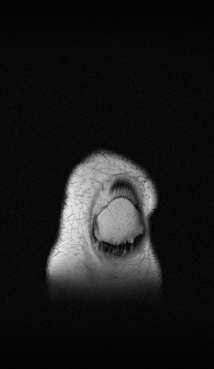
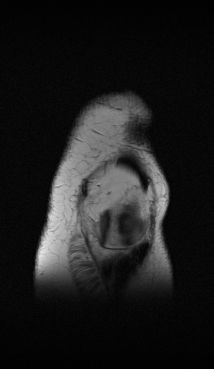
looking at different knee slice

Changed region(s): [[0.1402, 0.2385, 0.8131, 0.8049]]

diff --git a/my_CDLNet/sense.py b/my_CDLNet/sense.py
@@ -38,12 +38,11 @@ def main(args):
     device = torch.device("cuda:0" if ngpu > 0 else "cpu")
     print(f"Using device {device}.")
     
-    slice = args.slice
+    slice = int(args.slice)
     kspace_fname = args.kspace_path
     with h5py.File(kspace_fname) as f:
         kspace = f['kspace'][slice, :, :, :]
-        for name in f.keys():
-            print(f[name][()])
+        print(f.attrs['acquisition'])
     # Squeeze smaps, also conjugate since they come as conjugated form
     # smaps = smaps[0, :, :, :].conj()
     kspace = torch.from_numpy(kspace)  
